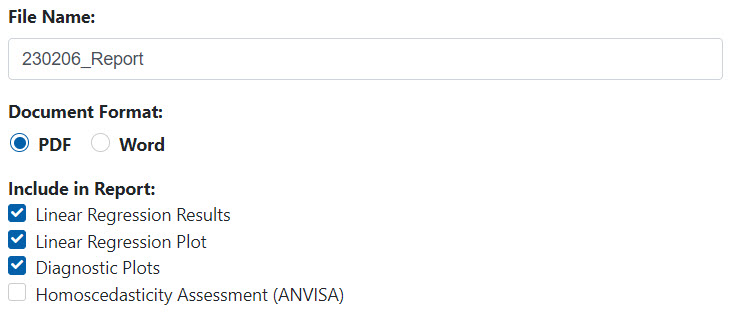
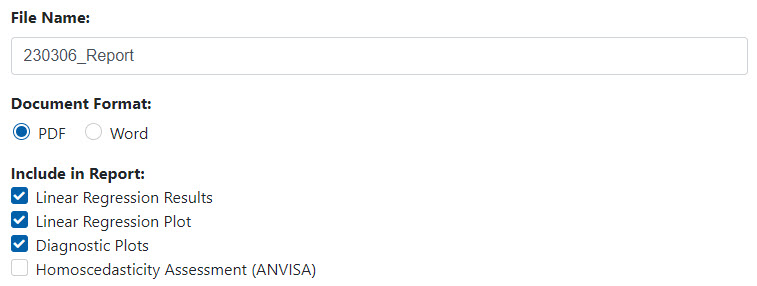
Further tests for homoscedasticity assessment
- Implement Levene test and Fligner-Kileen test for homoscedasticity
    assessment

diff --git a/www/results.html b/www/results.html
@@ -59,12 +59,4 @@
       BIC's calculation is slightly different. As for AIC, models with lower 
       BIC are generally preferred.</td>
   </tr>
-  <tr>
-    <td>C</td>
-    <td>Cochran's C statistic</td>
-  </tr>
-  <tr>
-    <td>k</td>
-    <td>Number of different concentration levels</td>
-  </tr>
 </table>

diff --git a/www/style.css b/www/style.css
@@ -188,3 +188,7 @@ table.desc_table {
 .radio-primary input[type="radio"]:checked+label::after {
     background-color: #0460A9;
 }
+
+.awesome-radio label:not(:first-child) {
+    font-weight: 400;
+}
